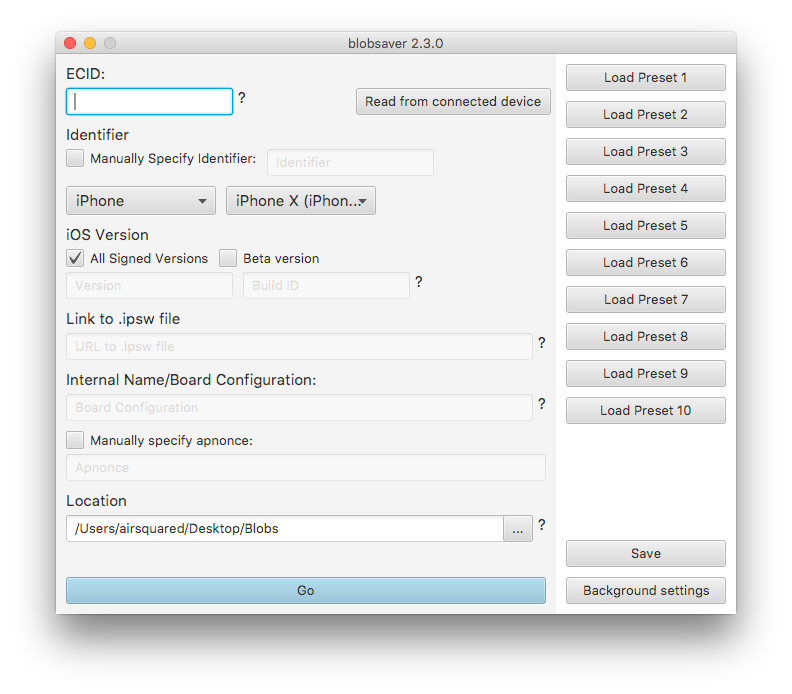
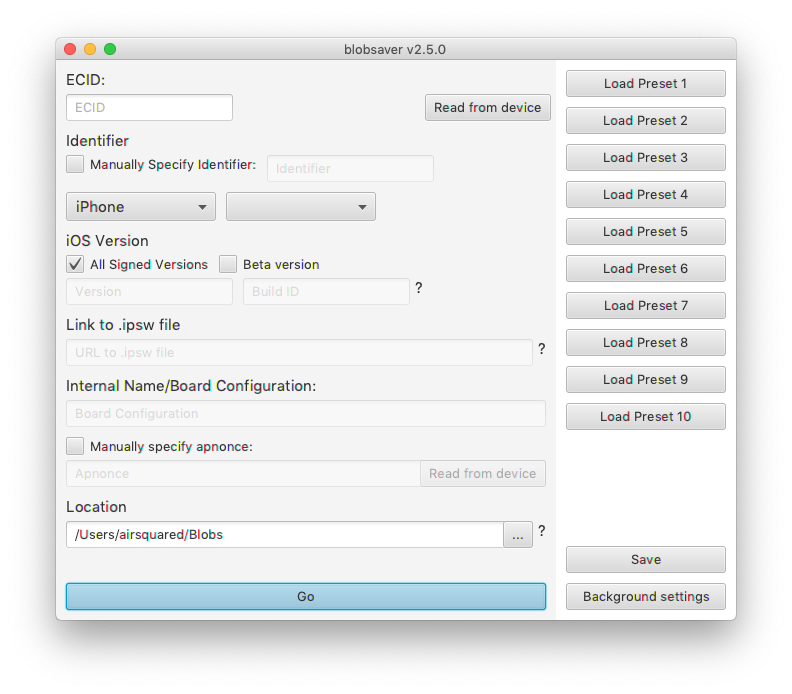
Release v2.5.0

diff --git a/src/main/java/com/airsquared/blobsaver/Main.java b/src/main/java/com/airsquared/blobsaver/Main.java
@@ -38,7 +38,7 @@ import java.util.prefs.Preferences;
 
 public class Main {
 
-    static final String appVersion = "v2.5.0-beta6";
+    static final String appVersion = "v2.5.0";
     static final Preferences appPrefs = Preferences.userRoot().node("airsquared/blobsaver/prefs");
     static Stage primaryStage;
     static final File jarDirectory;

diff --git a/README.md b/README.md
@@ -1,7 +1,7 @@
 Help support this project by ⭐'ing it! [Donations](https://www.paypal.me/airsqrd) also appreciated!
 
 # blobsaver [![GitHub All Releases](https://img.shields.io/github/downloads/airsquared/blobsaver/total.svg)](https://github.com/airsquared/blobsaver/releases/latest) [![Codacy Badge](https://api.codacy.com/project/badge/Grade/21c7f52476c948c9adc0439c0b6841ad)](https://app.codacy.com/app/airsquared/blobsaver?utm_source=github.com&utm_medium=referral&utm_content=airsquared/blobsaver&utm_campaign=Badge_Grade_Dashboard)
-A GUI for saving SHSH blobs using [tsschecker](https://github.com/tihmstar/tsschecker). Supports Mac, Windows, and Linux. Requires [Java](https://java.com/inc/BrowserRedirect1.jsp).
+A GUI for saving SHSH blobs using [tsschecker](https://github.com/tihmstar/tsschecker). Supports Mac, Windows, and Linux. Requires [Java](https://java.com/en/download/manual.jsp).
 
 **Tip:** if you want blobs you save to automatically be uploaded to the cloud, see [this](https://github.com/airsquared/blobsaver/wiki/Automatically-saving-blobs-to-the-cloud)
 
@@ -17,12 +17,8 @@ If you have an antivirus or firewall, you may need to disable some other setting
 - Store up to ten devices with presets
 - Save blobs for beta versions
 - Read ECID and other info from device so you don't have to get it manually
+- Read apnonce from device also
 - No need to download entire .ipsw for beta versions(just specify link)
-- Choose where to save blobs with file picker
-- Explains how to get ECID, Board Config(if needed), and information necessary for beta versions
-- Automatically checks for updates and prompts if available
-- Optionally specify device identifier instead of using device picker
-- Optionally specify apnonce
 
 ## Feedback
 Please send feedback via [Github Issue](https://github.com/airsquared/blobsaver/issues/new/choose) or [Reddit PM](https://www.reddit.com//message/compose?to=01110101_00101111&subject=Blobsaver+Feedback) if you encounter any bugs/problems or have a feature request. 
